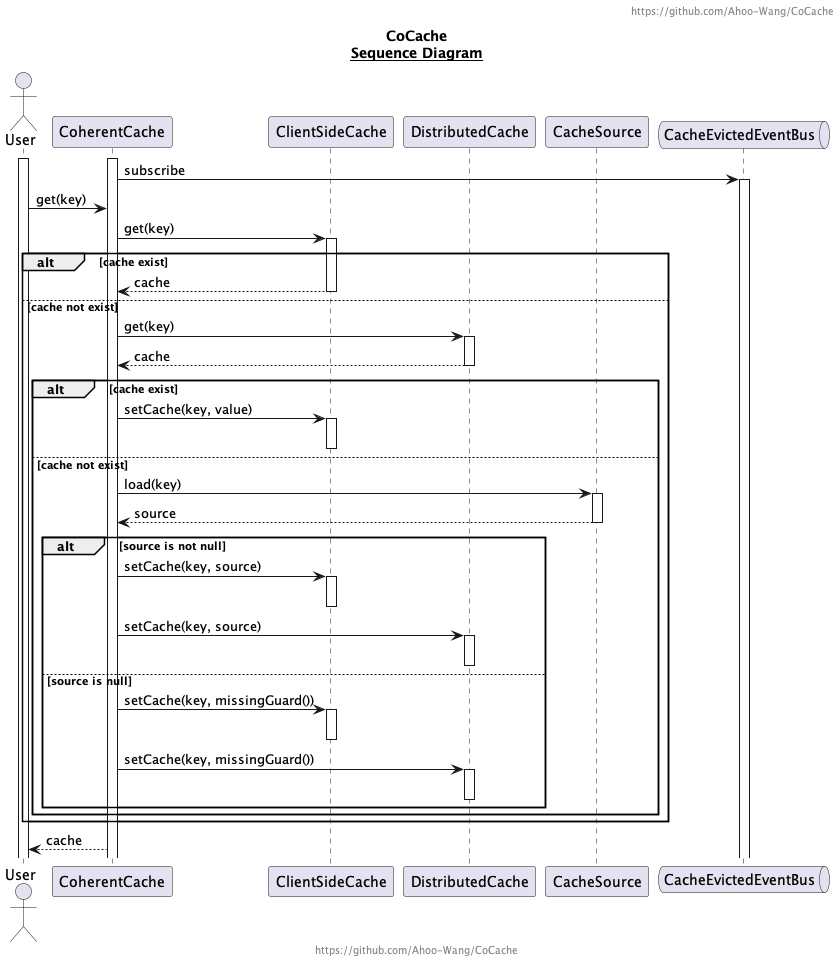
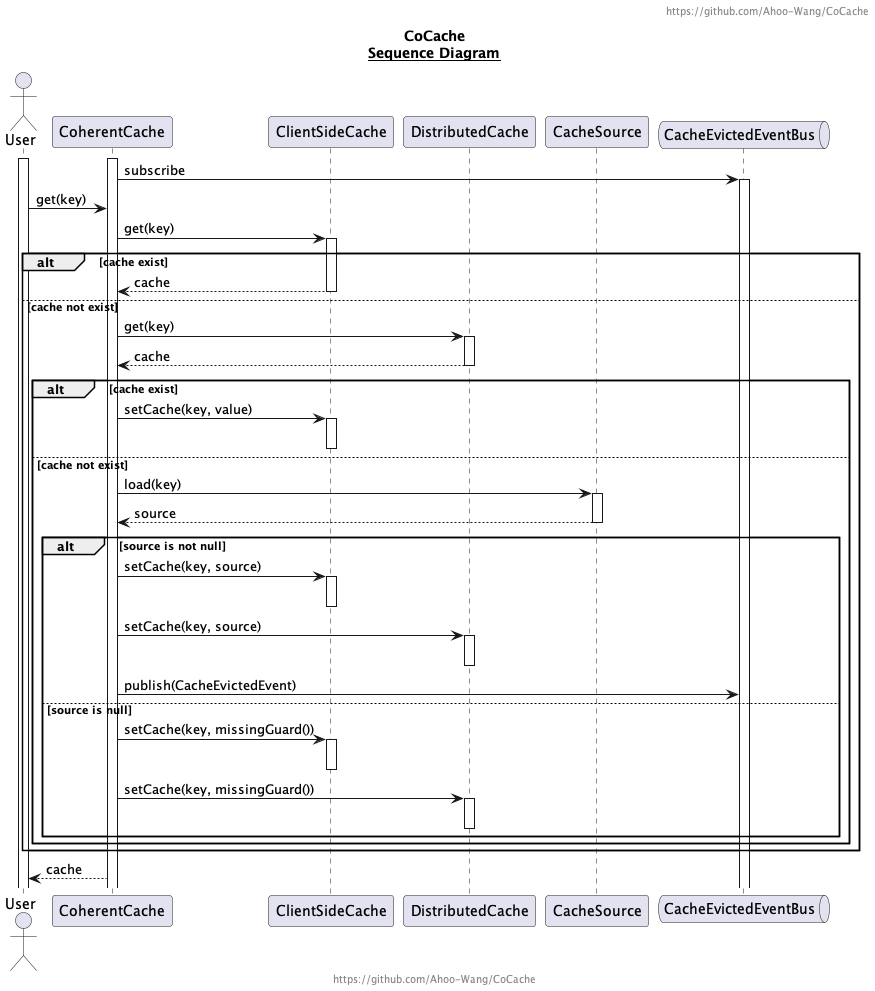
publish CacheEvictedEvent when CacheSource Loaded

diff --git a/cocache-core/src/main/kotlin/me/ahoo/cache/CoherentCache.kt b/cocache-core/src/main/kotlin/me/ahoo/cache/CoherentCache.kt
@@ -97,6 +97,7 @@ class CoherentCache<K, V>(
             val sourceCache = cacheSource.load(key)
             if (null != sourceCache) {
                 setCache(cacheKey, sourceCache)
+                cacheEvictedEventBus.publish(CacheEvictedEvent(cacheName, cacheKey, clientId))
                 return sourceCache
             }
             //endregion
